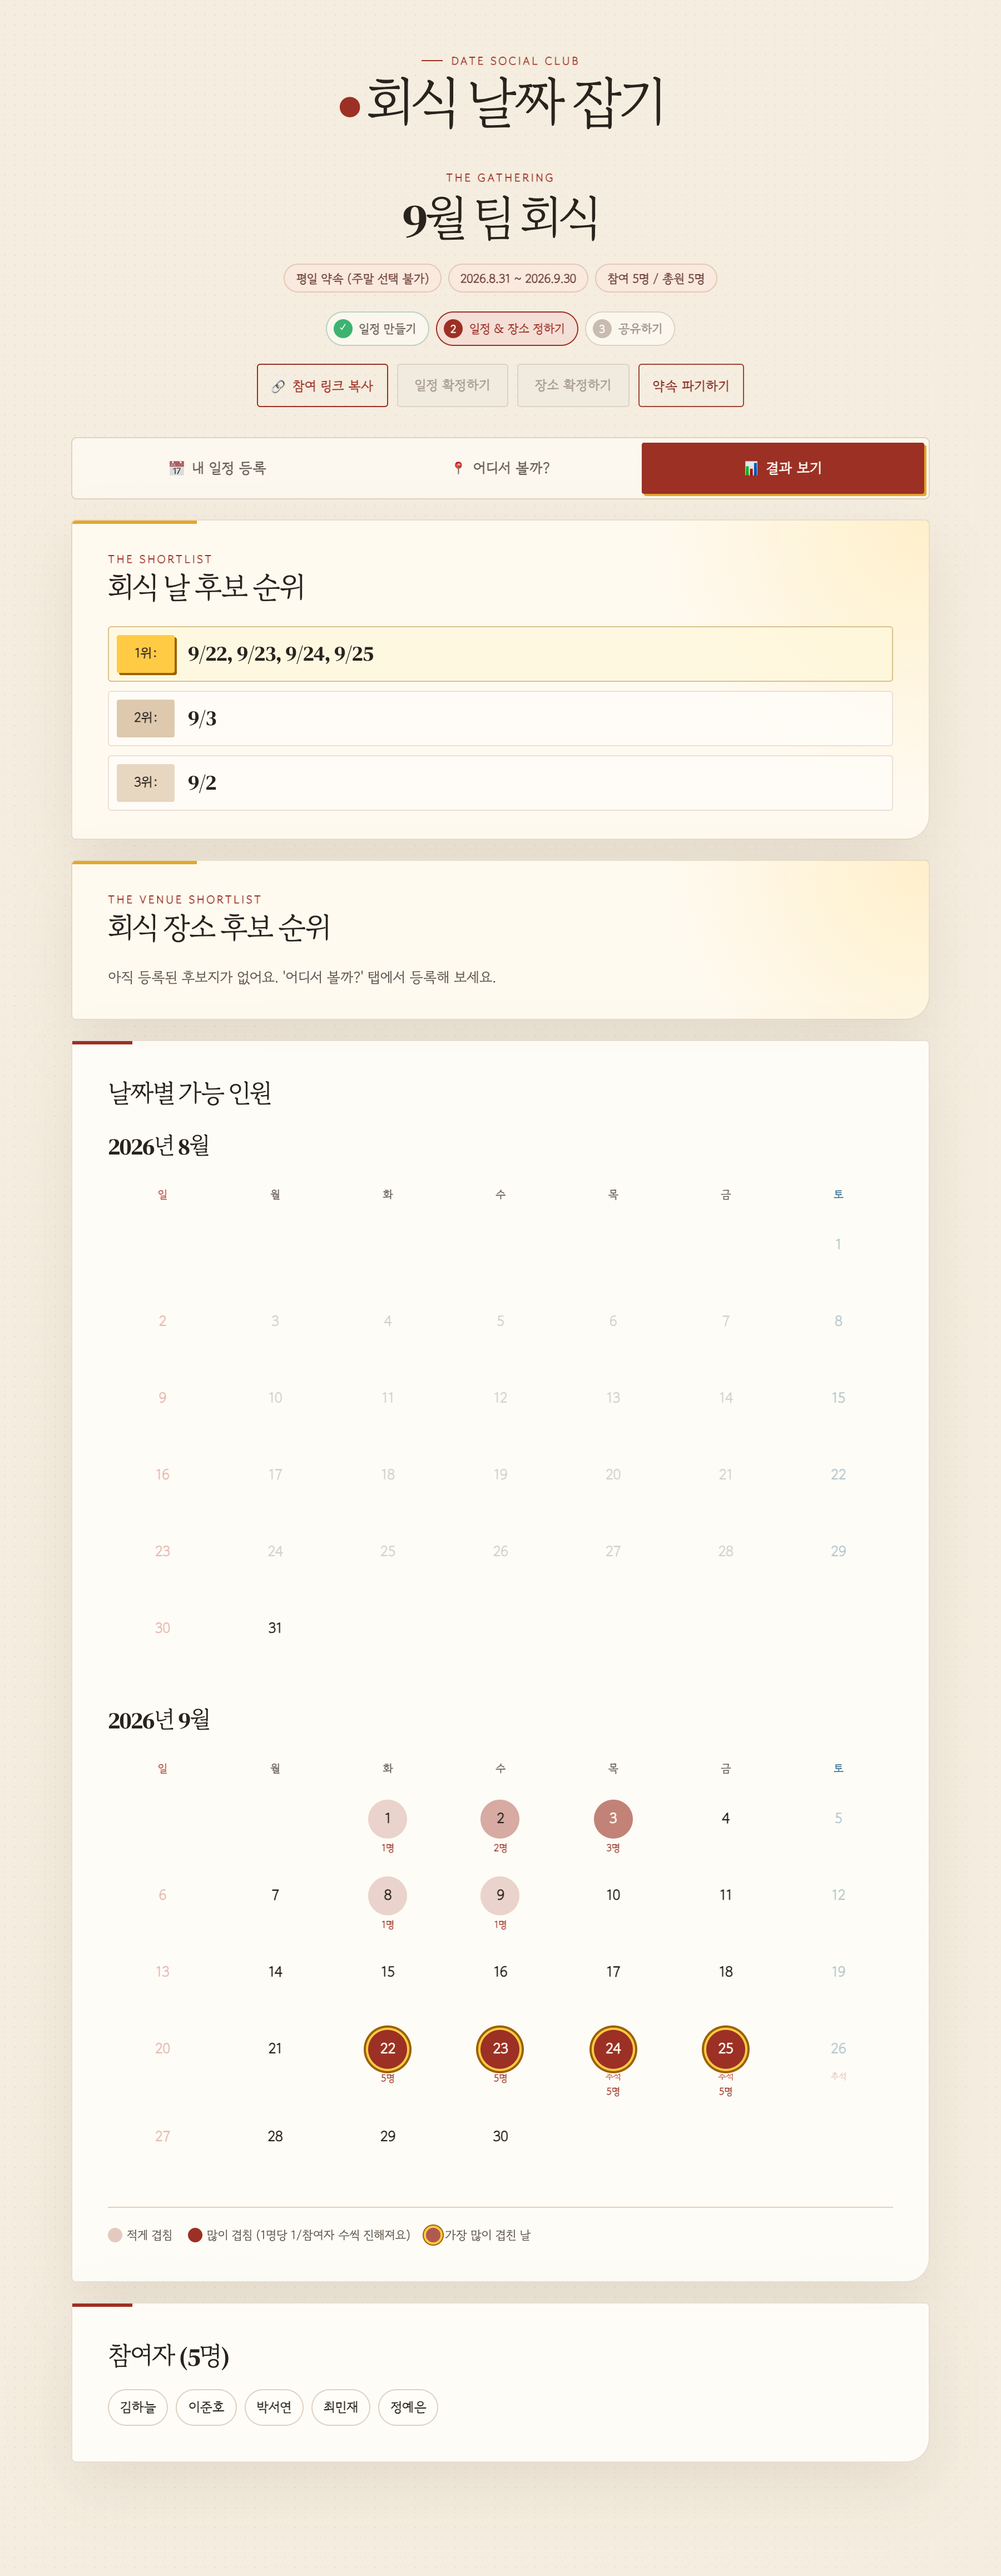
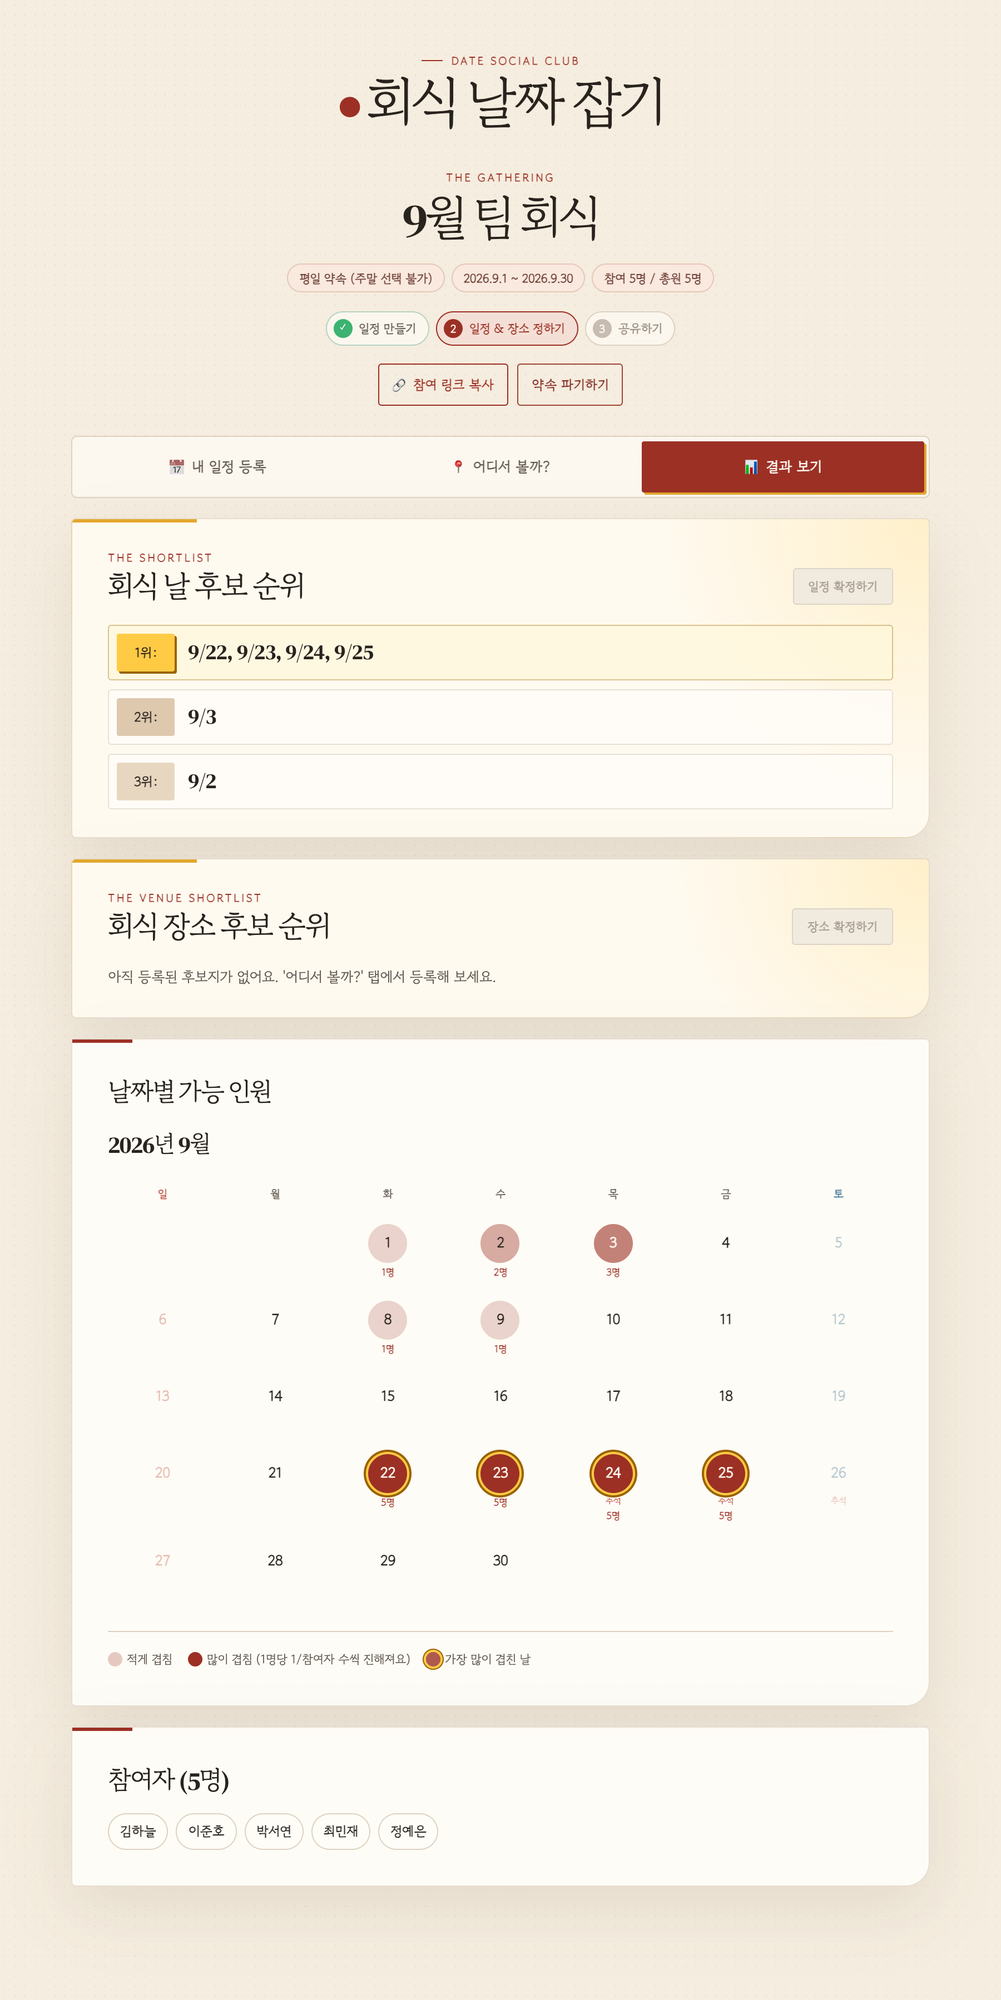
확정 동작을 결과 보기 탭으로 이동, 장소 공유 링크로 확장
- 일정/장소 확정 토글을 상단 툴바에서 결과 보기 탭의 각 순위 카드
  우상단(카드 제목과 하단 정렬)으로 이동 — 순위를 보며 그 자리에서
  확정하는 구조
- 결과 탭을 보는 중 확정·해제하면 후보/확정 카드가 실시간으로
  전환되도록 수정 (기존에는 탭을 벗어났다 와야 반영)
- '네이버 지도 링크'를 '장소 공유 링크'로 개칭하고 허용 도메인을
  카카오맵(kko.to·kakao.com)·구글 지도(maps.app.goo.gl·google.com)
  까지 확장, 접미사 위장 차단 유지
- 팀즈 Adaptive Card 와 미리보기에 '장소 공유 링크' 항목 추가,
  카드 버튼 라벨을 '지도에서 보기'로 일반화

Claude-Session: https://claude.ai/code/session_018FYPPB8ih5HsNu38NPAV2M

diff --git a/public/event.html b/public/event.html
@@ -31,12 +31,6 @@
         </ol>
         <div class="toolbar">
           <button type="button" class="btn ghost small" id="copy-link">🔗 참여 링크 복사</button>
-          <button type="button" class="toggle-btn" id="confirm-event" aria-pressed="false">
-            <span class="toggle-label">일정 확정하기</span>
-          </button>
-          <button type="button" class="toggle-btn" id="confirm-place-toggle" aria-pressed="false">
-            <span class="toggle-label">장소 확정하기</span>
-          </button>
           <button type="button" class="btn ghost danger small" id="cancel-event">약속 파기하기</button>
         </div>
       </div>
@@ -88,16 +82,26 @@
       <section id="panel-result" hidden>
         <section class="card candidate-ranking" id="date-ranking-card" aria-labelledby="candidate-ranking-title">
           <div class="candidate-ranking-head">
-            <p class="section-kicker" id="date-ranking-kicker">THE SHORTLIST</p>
-            <h2 id="candidate-ranking-title">회식 날 후보 순위</h2>
+            <div class="candidate-ranking-titles">
+              <p class="section-kicker" id="date-ranking-kicker">THE SHORTLIST</p>
+              <h2 id="candidate-ranking-title">회식 날 후보 순위</h2>
+            </div>
+            <button type="button" class="toggle-btn card-toggle" id="confirm-event" aria-pressed="false">
+              <span class="toggle-label">일정 확정하기</span>
+            </button>
           </div>
           <div class="candidate-ranking-list" id="candidate-ranking" aria-live="polite"></div>
         </section>
 
         <section class="card candidate-ranking" id="place-ranking-card" aria-labelledby="place-ranking-title">
           <div class="candidate-ranking-head">
-            <p class="section-kicker" id="place-ranking-kicker">THE VENUE SHORTLIST</p>
-            <h2 id="place-ranking-title">회식 장소 후보 순위</h2>
+            <div class="candidate-ranking-titles">
+              <p class="section-kicker" id="place-ranking-kicker">THE VENUE SHORTLIST</p>
+              <h2 id="place-ranking-title">회식 장소 후보 순위</h2>
+            </div>
+            <button type="button" class="toggle-btn card-toggle" id="confirm-place-toggle" aria-pressed="false">
+              <span class="toggle-label">장소 확정하기</span>
+            </button>
           </div>
           <div class="candidate-ranking-list" id="place-ranking" aria-live="polite"></div>
           <div class="ranking-foot">
@@ -165,9 +169,9 @@
           </div>
           <div class="place-results" id="place-results"></div>
           <div class="field">
-            <label for="place-link">네이버 지도 링크 (선택)</label>
-            <input type="text" id="place-link" placeholder="https://naver.me/..." maxlength="300" />
-            <p class="hint">공유한 POI 링크를 넣으면 후보 카드에서 그 링크로 바로 열려요. 비워두면 이름과 주소로 지도 검색 링크를 만들어 둡니다.</p>
+            <label for="place-link">장소 공유 링크 (선택)</label>
+            <input type="text" id="place-link" placeholder="https://naver.me/... 또는 https://kko.to/..." maxlength="300" />
+            <p class="hint"><b>네이버지도·카카오맵·구글 지도</b> 등 지도 앱에서 공유한 링크를 넣으면 후보 카드에서 그 링크로 바로 열려요. 비워두면 이름과 주소로 지도 검색 링크를 만들어 둡니다.</p>
           </div>
           <button type="button" class="btn block" id="place-add-btn" disabled><span>후보로 등록</span><span aria-hidden="true">→</span></button>
           <p class="error-msg" id="place-error"></p>
@@ -209,9 +213,9 @@
           <p class="hint">득표순이에요. 후보 카드의 '이 곳으로 확정하기'로도 지정할 수 있어요.</p>
         </div>
         <div class="field" id="place-dialog-link-field">
-          <label for="place-confirm-link">네이버 지도 링크 (선택)</label>
-          <input type="url" id="place-confirm-link" placeholder="https://naver.me/..." maxlength="300" autocomplete="off" spellcheck="false" />
-          <p class="hint">넣어두면 팀즈로 보낼 때 <b>정확한 지도 링크</b>가 함께 전달돼요. 비우면 링크 없이 보냅니다.</p>
+          <label for="place-confirm-link">장소 공유 링크 (선택)</label>
+          <input type="url" id="place-confirm-link" placeholder="https://naver.me/... 또는 https://kko.to/..." maxlength="300" autocomplete="off" spellcheck="false" />
+          <p class="hint"><b>네이버지도·카카오맵·구글 지도</b> 등 지도 앱의 공유 링크를 넣어두면 팀즈로 보낼 때 <b>정확한 지도 링크</b>가 함께 전달돼요. 비우면 링크 없이 보냅니다.</p>
         </div>
         <div class="field">
           <label for="place-confirm-pin">관리 비밀번호</label>

diff --git a/public/js/event.js b/public/js/event.js
@@ -848,7 +848,7 @@ function renderConfirmedPlace() {
     <p class="confirmed-place-name">${esc(place.name)}</p>
     <p class="confirmed-place-address">${esc(place.roadAddress || place.address || '')}</p>
     <a class="confirmed-place-link" href="${esc(placeMapLink(place))}" target="_blank" rel="noopener noreferrer">지도에서 보기 ↗</a>
-    ${place.link ? '' : '<p class="confirmed-place-warn">네이버 지도 링크가 없어 <b>검색</b>으로 연결돼요. 장소를 다시 확정하며 링크를 넣으면 팀즈로도 함께 전달됩니다.</p>'}`;
+    ${place.link ? '' : '<p class="confirmed-place-warn">장소 공유 링크가 없어 <b>검색</b>으로 연결돼요. 장소를 다시 확정하며 링크를 넣으면 팀즈로도 함께 전달됩니다.</p>'}`;
 }
 
 function renderPlacePanel() {
@@ -964,9 +964,9 @@ async function submitConfirm(e) {
     $('confirm-dialog').close();
     syncManageLockState();
     syncConfirmState();
-    // 공유 버튼은 일정+장소가 모두 확정됐을 때만 나오므로 후보 목록도 다시 그린다.
     renderPlaceList();
-    if (isScheduleConfirmed()) switchTab('place');
+    // 결과 탭을 보고 있으면 후보/확정 카드가 실시간으로 전환되게 다시 그린다.
+    if (!$('panel-result').hidden) renderResult();
     maybeEnterShareStep(wasFullyConfirmed);
   } catch (err) {
     errorEl.textContent = err.message;
@@ -1011,6 +1011,7 @@ function renderTeamsPreview() {
   if (place) {
     rows.push(previewRow('장소', place.name));
     if (place.roadAddress || place.address) rows.push(previewRow('주소', place.roadAddress || place.address));
+    if (place.link) rows.push(previewRow('장소 공유 링크', place.link));
   }
   rows.push(previewRow('참여 인원', `${eventData.participants.length}명 / 총원 ${eventData.totalCount}명`));
 
@@ -1019,7 +1020,7 @@ function renderTeamsPreview() {
     <p class="teams-preview-meta">${esc(formatShortDate(eventData.confirmedDate))} ${esc(formatMeetTime(eventData.confirmedTime))}</p>
     ${note ? `<p class="teams-preview-note">${esc(note)}</p>` : ''}
     ${rows.join('')}
-    <p class="teams-preview-action">${place && place.link ? '네이버 지도에서 보기 · ' : ''}약속 페이지 열기 →</p>`;
+    <p class="teams-preview-action">${place && place.link ? '지도에서 보기 · ' : ''}약속 페이지 열기 →</p>`;
 
   renderWebhookFields();
 }
@@ -1037,7 +1038,7 @@ function renderWebhookFields() {
   if (place && place.link) fields.push(['url', place.link]);
   $('webhook-fields').innerHTML =
     fields.map(([key, value]) => `<div class="webhook-field"><code>${key}</code><span>${esc(value)}</span></div>`).join('') +
-    (place && place.link ? '' : '<p class="hint">네이버 지도 링크가 없어 <code>url</code> 필드는 <b>보내지 않습니다.</b> 장소를 다시 확정하며 링크를 넣으면 포함돼요.</p>');
+    (place && place.link ? '' : '<p class="hint">장소 공유 링크가 없어 <code>url</code> 필드는 <b>보내지 않습니다.</b> 장소를 다시 확정하며 링크를 넣으면 포함돼요.</p>');
 }
 
 // OG 설명문·공유 문구에 쓰는 요약. (서버 buildEventMeta 와 같은 규칙)
@@ -1220,6 +1221,8 @@ async function submitPlaceConfirm(e) {
     $('place-dialog').close();
     syncConfirmState();
     renderPlacePanel();
+    // 결과 탭을 보고 있으면 후보/확정 카드가 실시간으로 전환되게 다시 그린다.
+    if (!$('panel-result').hidden) renderResult();
     maybeEnterShareStep(wasFullyConfirmed);
   } catch (err) {
     errorEl.textContent = err.message;

diff --git a/functions/api/_shared.js b/functions/api/_shared.js
@@ -217,7 +217,7 @@ export function placeMapLink(place) {
 }
 
 // ---- 후보 장소 ----
-// 저장하는 링크는 네이버 도메인으로 제한한다. (임의 외부 링크 등록 방지)
+// 장소 공유 링크는 주요 지도 앱(네이버지도·카카오맵·구글 지도) 도메인으로 제한한다. (임의 외부 링크 등록 방지)
 export function normalizePlaceLink(raw) {
   const value = String(raw || '').trim();
   if (!value) return { link: '' };
@@ -230,8 +230,9 @@ export function normalizePlaceLink(raw) {
   }
   if (parsed.protocol !== 'https:' && parsed.protocol !== 'http:') return { error: '링크 형식이 올바르지 않습니다.' };
   const host = parsed.hostname.toLowerCase();
-  const isNaver = ['naver.me', 'naver.com'].some((allowed) => host === allowed || host.endsWith(`.${allowed}`));
-  if (!isNaver) return { error: '네이버 지도 링크(naver.me, map.naver.com)만 등록할 수 있어요.' };
+  const MAP_LINK_HOSTS = ['naver.me', 'naver.com', 'kko.to', 'kakao.com', 'maps.app.goo.gl', 'google.com', 'goo.gl'];
+  const isMapLink = MAP_LINK_HOSTS.some((allowed) => host === allowed || host.endsWith(`.${allowed}`));
+  if (!isMapLink) return { error: '지도 앱의 공유 링크(네이버지도·카카오맵·구글 지도)만 등록할 수 있어요.' };
   return { link: parsed.toString() };
 }
 
@@ -448,12 +449,13 @@ export function buildTeamsCard(event, shareUrl, note) {
   if (place) {
     facts.push({ title: '장소', value: place.name });
     if (place.roadAddress || place.address) facts.push({ title: '주소', value: place.roadAddress || place.address });
+    if (mapUrl) facts.push({ title: '장소 공유 링크', value: mapUrl });
   }
   facts.push({ title: '참여 인원', value: `${event.participants.length}명 / 총원 ${event.totalCount}명` });
   body.push({ type: 'FactSet', facts, spacing: 'Medium' });
 
   const actions = [];
-  if (mapUrl) actions.push({ type: 'Action.OpenUrl', title: '네이버 지도에서 보기', url: mapUrl });
+  if (mapUrl) actions.push({ type: 'Action.OpenUrl', title: '지도에서 보기', url: mapUrl });
   actions.push({ type: 'Action.OpenUrl', title: '약속 페이지 열기', url: shareUrl });
 
   return {

diff --git a/server.js b/server.js
@@ -315,7 +315,7 @@ function placeMapLink(place) {
 }
 
 // ---- 후보 장소 공용 로직 ----
-// 저장하는 링크는 네이버 도메인으로 제한한다. (임의 외부 링크 등록 방지)
+// 장소 공유 링크는 주요 지도 앱(네이버지도·카카오맵·구글 지도) 도메인으로 제한한다. (임의 외부 링크 등록 방지)
 function normalizePlaceLink(raw) {
   const value = String(raw || '').trim();
   if (!value) return { link: '' };
@@ -328,8 +328,9 @@ function normalizePlaceLink(raw) {
   }
   if (parsed.protocol !== 'https:' && parsed.protocol !== 'http:') return { error: '링크 형식이 올바르지 않습니다.' };
   const host = parsed.hostname.toLowerCase();
-  const isNaver = ['naver.me', 'naver.com'].some((allowed) => host === allowed || host.endsWith(`.${allowed}`));
-  if (!isNaver) return { error: '네이버 지도 링크(naver.me, map.naver.com)만 등록할 수 있어요.' };
+  const MAP_LINK_HOSTS = ['naver.me', 'naver.com', 'kko.to', 'kakao.com', 'maps.app.goo.gl', 'google.com', 'goo.gl'];
+  const isMapLink = MAP_LINK_HOSTS.some((allowed) => host === allowed || host.endsWith(`.${allowed}`));
+  if (!isMapLink) return { error: '지도 앱의 공유 링크(네이버지도·카카오맵·구글 지도)만 등록할 수 있어요.' };
   return { link: parsed.toString() };
 }
 
@@ -535,12 +536,13 @@ function buildTeamsCard(event, shareUrl, note) {
   if (place) {
     facts.push({ title: '장소', value: place.name });
     if (place.roadAddress || place.address) facts.push({ title: '주소', value: place.roadAddress || place.address });
+    if (mapUrl) facts.push({ title: '장소 공유 링크', value: mapUrl });
   }
   facts.push({ title: '참여 인원', value: `${event.participants.length}명 / 총원 ${event.totalCount}명` });
   body.push({ type: 'FactSet', facts, spacing: 'Medium' });
 
   const actions = [];
-  if (mapUrl) actions.push({ type: 'Action.OpenUrl', title: '네이버 지도에서 보기', url: mapUrl });
+  if (mapUrl) actions.push({ type: 'Action.OpenUrl', title: '지도에서 보기', url: mapUrl });
   actions.push({ type: 'Action.OpenUrl', title: '약속 페이지 열기', url: shareUrl });
 
   return {

diff --git a/public/css/style.css b/public/css/style.css
@@ -144,7 +144,10 @@ input:focus-visible { border-color: var(--accent); background: #fffefa; box-shad
 /* ---------- people / results ---------- */
 .candidate-ranking { overflow: hidden; padding-block: 28px 25px; background-color: #fffaf0; background-image: radial-gradient(circle at 100% 0, rgba(255, 203, 69, 0.22), transparent 30%); }
 .candidate-ranking::before { width: 112px; background: var(--mustard); }
+.candidate-ranking-head { display: flex; align-items: flex-end; justify-content: space-between; gap: 12px; flex-wrap: wrap; }
+.candidate-ranking-titles { min-width: 0; }
 .candidate-ranking-head .section-kicker { margin-bottom: 6px; }
+.toggle-btn.card-toggle { min-height: 33px; flex: 0 0 auto; padding: 6px 13px; font-size: 11px; }
 .candidate-ranking-head h2 { margin: 0; }
 .candidate-ranking-list { display: grid; gap: 8px; margin-top: 18px; }
 .candidate-ranking-row { display: grid; grid-template-columns: 52px minmax(0, 1fr); align-items: center; gap: 12px; min-height: 48px; padding: 7px 10px 7px 7px; border: 1px solid rgba(133, 104, 72, 0.18); border-radius: 3px; background: rgba(255, 253, 248, 0.78); }
